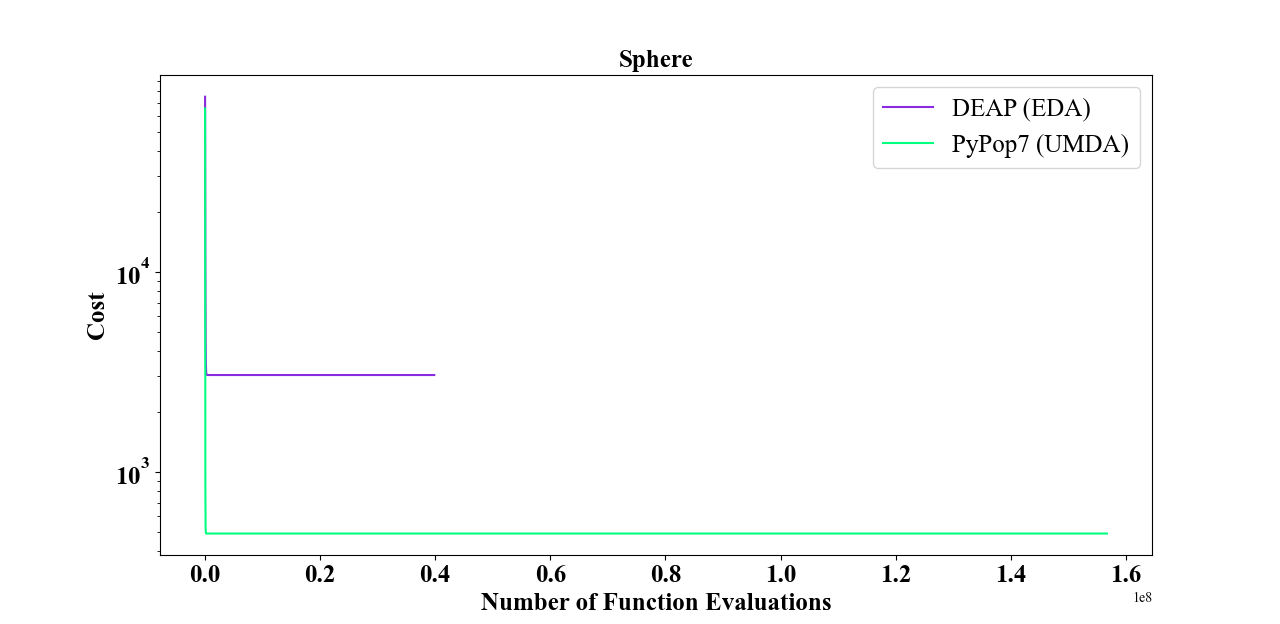
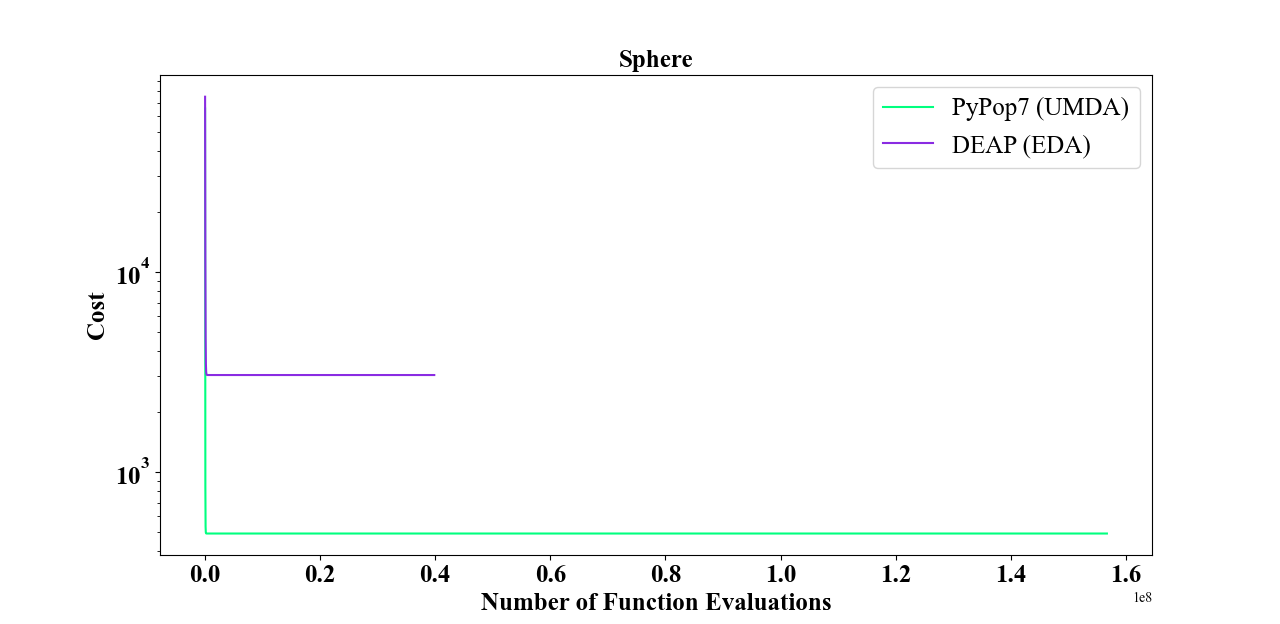
Update docs/efficiency/sphere/compare_deap-eda_vs_pypop7-umda.py

Changed region(s): [[0.75, 0.2131, 0.875, 0.2436], [0.75, 0.1522, 0.875, 0.1827]]

diff --git a/docs/efficiency/sphere/compare_deap-eda_vs_pypop7-umda.py b/docs/efficiency/sphere/compare_deap-eda_vs_pypop7-umda.py
@@ -19,9 +19,9 @@ def read_pickle(s, ii):
 
 if __name__ == '__main__':
     n_trials = 10
-    algos = ['DEAP', 'PYPOP7']
-    labels = ['DEAP (EDA)', 'PyPop7 (UMDA)']
-    colors = ['blueviolet', 'springgreen']
+    algos = ['PYPOP7', 'DEAP']
+    labels = ['PyPop7 (UMDA)', 'DEAP (EDA)']
+    colors = ['springgreen', 'blueviolet']
     max_runtime, fitness_threshold = 3600*3 - 10*60, 1e-10
     time, fitness, fe = [], [], []
     for j in range(len(algos)):  # initialize
@@ -68,6 +68,40 @@ if __name__ == '__main__':
     plt.legend(labels, fontsize=18)
     plt.show()
 
+    algos = ['DEAP', 'PYPOP7']
+    labels = ['DEAP (EDA)', 'PyPop7 (UMDA)']
+    colors = ['blueviolet', 'springgreen']
+    max_runtime, fitness_threshold = 3600 * 3 - 10 * 60, 1e-10
+    time, fitness, fe = [], [], []
+    for j in range(len(algos)):  # initialize
+        time.append([])
+        fitness.append([])
+        fe.append([])
+        for i in range(n_trials):
+            time[j].append([])
+            fitness[j].append([])
+            fe[j].append([])
+    for i in range(n_trials):
+        for j, a in enumerate(algos):
+            results = read_pickle(a, str(i + 1))
+            time[j][i] = results['fitness'][:, 0] * results['runtime'] / results['n_function_evaluations']
+            fe[j][i] = results['fitness'][:, 0]
+            y = results['fitness'][:, 1]
+            fitness[j][i] = y
+            print(i + 1, ' * ', a, ':', results['n_function_evaluations'], results['best_so_far_y'])
+    top_fitness, top_order = [], []
+    for j, a in enumerate(algos):
+        run, fit, r_f = [], [], []
+        for i in range(len(time[j])):
+            run.append(time[j][i][-1] if time[j][i][-1] <= max_runtime else max_runtime)
+            fit.append(fitness[j][i][-1] if fitness[j][i][-1] >= fitness_threshold else fitness_threshold)
+            r_f.append([run[i], fit[i], i])
+        r_f.sort(key=lambda x: (x[0], x[1]))  # sort by first runtime then fitness
+        order = r_f[int(n_trials / 2)][2]  # for median (but non-standard for simplicity)
+        top_order.append(order)
+        top_fitness.append([run[order], fit[order], a])
+    top_fitness.sort(key=lambda x: (x[0], x[1]))
+    top_fitness = [t for t in [tr[2] for tr in top_fitness]]
     fig = plt.figure(figsize=(8.5, 8.5))
     plt.rcParams['font.family'] = 'Times New Roman'
     ax1 = fig.add_subplot(111)
